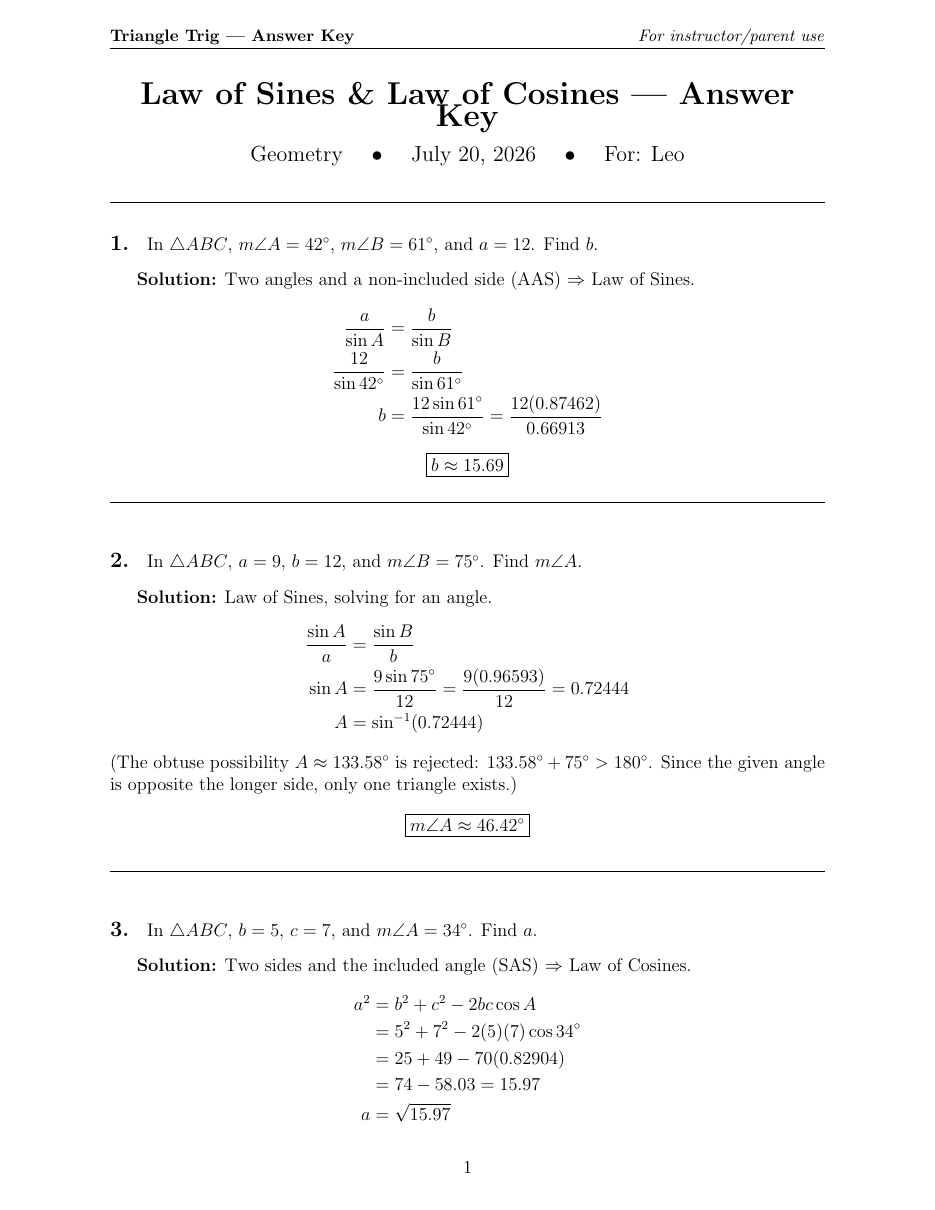
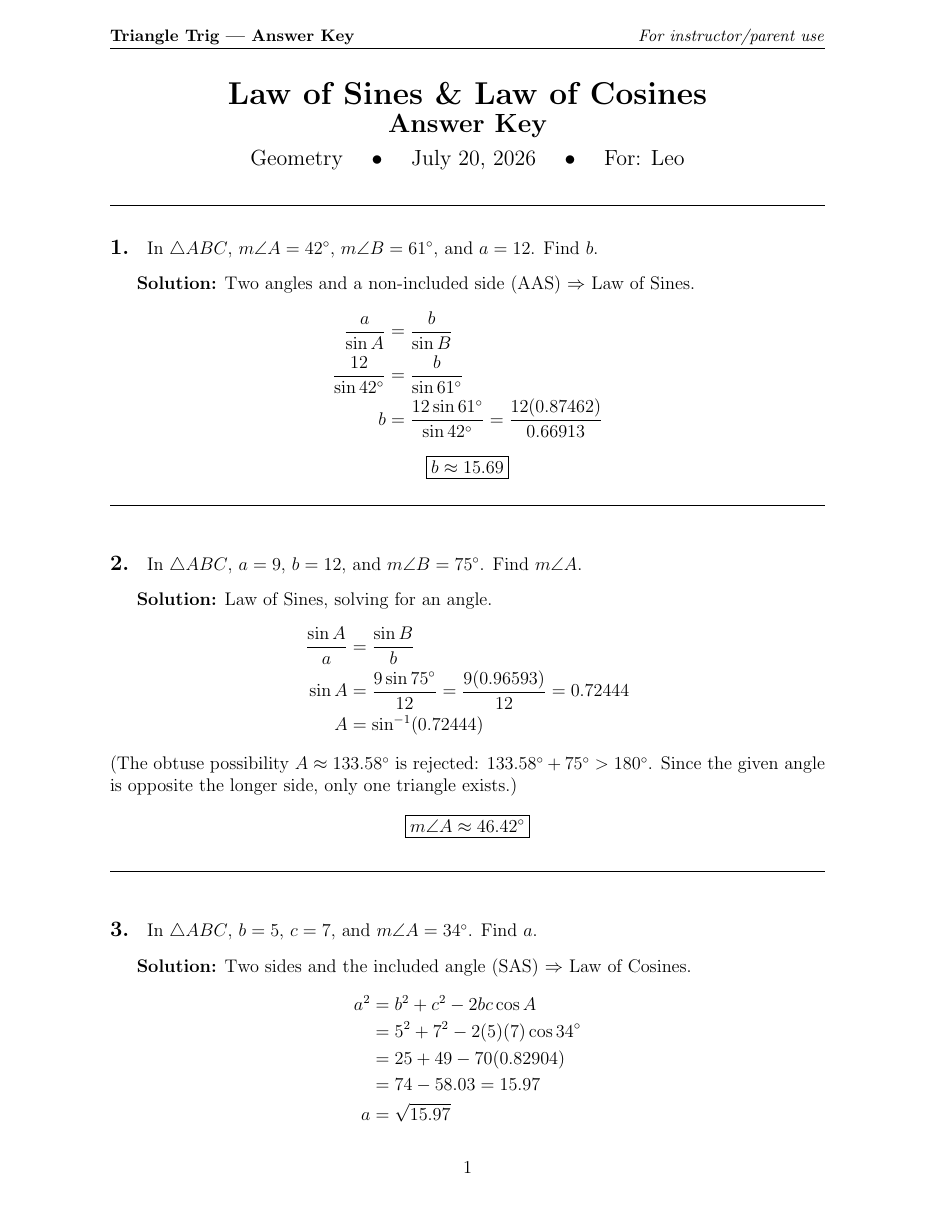
Fix title wrapping: shrink-to-fit title macro + stacked answer-key subtitle
The answer-key title 'TOPIC --- Answer Key' overflowed \LARGE and wrapped
mid-phrase. Added a \fittedtitle macro (uses \LARGE when it fits, scales to
\linewidth only when it would overflow — never enlarges) and an answer-key
title-block template that puts the topic on its own fitted line with 'Answer
Key' as a subtitle beneath (never appended inline). Compile-tested with
short, borderline, and extra-long topics; regenerated the README answer-key
sample to show the clean title.

Claude-Session: https://claude.ai/code/session_01GY5KN8GjoNe9rovugEVXrB

diff --git a/references/latex-templates.md b/references/latex-templates.md
@@ -22,9 +22,18 @@
 \newcounter{prob}
 \newcommand{\problem}[1]{\stepcounter{prob}\vspace{0.4cm}\noindent\textbf{\large\theprob.}\quad #1\vspace{0.3cm}}
 
+% Shrink-to-fit title: use \LARGE when it fits on one line, otherwise scale
+% down to the text width — never enlarges, never wraps mid-phrase. (\resizebox
+% comes from graphicx, which tikz already loads.)
+\newlength{\fittedw}
+\newcommand{\fittedtitle}[1]{%
+  \settowidth{\fittedw}{\LARGE\bfseries #1}%
+  \ifdim\fittedw>\linewidth\resizebox{\linewidth}{!}{\bfseries #1}%
+  \else{\LARGE\bfseries #1}\fi}
+
 \begin{document}
 \begin{center}
-  {\LARGE\textbf{TOPIC Practice Worksheet}}\\[0.3cm]
+  \fittedtitle{TOPIC Practice Worksheet}\\[0.3cm]
   {\large COURSE \quad $\bullet$ \quad DATE}
 \end{center}
 \noindent\rule{\linewidth}{0.4pt}\vspace{0.2cm}
@@ -390,9 +399,20 @@ Sphere:
 
 ### Answer key document header
 ```latex
-\fancyhead[L]{\textbf{TOPIC --- Answer Key}}
-\fancyhead[R]{\textit{For instructor/parent use}}
+\fancyhead[L]{\textbf{\small TOPIC --- Answer Key}}   % keep TOPIC short (≤28 chars)
+\fancyhead[R]{\textit{\small For instructor/parent use}}
 ```
+
+### Answer key title block
+Put the topic on its own line (shrink-to-fit) and **"Answer Key" as a subtitle beneath it** — never append "--- Answer Key" to the big title, or a long topic wraps mid-phrase.
+```latex
+\begin{center}
+  \fittedtitle{TOPIC}\\[0.15cm]
+  {\Large\bfseries Answer Key}\\[0.25cm]
+  {\large COURSE \quad $\bullet$ \quad DATE}
+\end{center}
+```
+The skills-summary title uses the same pattern with `Study Guide` as the subtitle.
 
 ### Step-by-step solution
 ```latex
